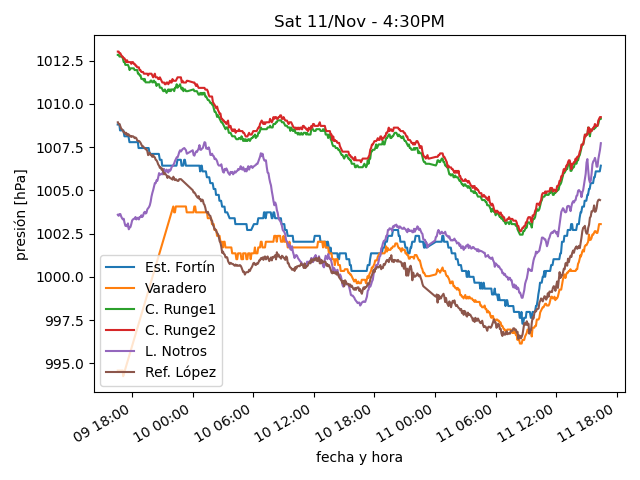
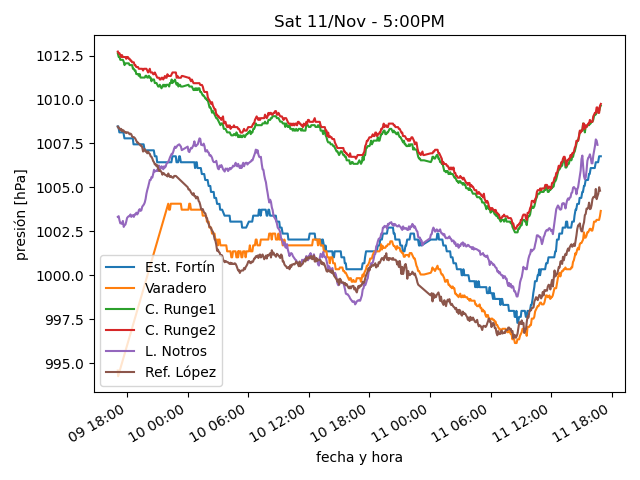
actualiza datos

diff --git a/estaciones/estacion3.html b/estaciones/estacion3.html
@@ -18,47 +18,47 @@
     </tr>
     <tr>
      <td class="stats_data">
-      4:24PM
+      4:54PM
      </td>
     </tr>
     <tr>
      <td class="stats_data">
-      1.8⁰C
+      0.8⁰C
      </td>
     </tr>
     <tr>
      <td class="stats_data">
-      0.9⁰C
+      0.5⁰C
      </td>
     </tr>
     <tr>
      <td class="stats_data">
-      94.3%
+      97.8%
      </td>
     </tr>
     <tr>
      <td class="stats_data">
-      997.43hPa
+      997.93hPa
      </td>
     </tr>
     <tr>
      <td class="stats_data">
-      5.6/8.6 km/hr WNW
+      6.7/9.9 km/hr WNW
      </td>
     </tr>
     <tr>
      <td class="stats_data">
-      4.6 / 0.0 mm
+      4.8 / 1.19 mm
      </td>
     </tr>
     <tr>
      <td class="stats_data">
-      1.0
+      2.0
      </td>
     </tr>
     <tr>
      <td class="stats_data">
-      105.0 W/m²
+      209.9 W/m²
      </td>
     </tr>
    </tbody>

diff --git a/estaciones/estacion4.html b/estaciones/estacion4.html
@@ -18,47 +18,47 @@
     </tr>
     <tr>
      <td class="stats_data">
-      4:24PM
+      4:54PM
      </td>
     </tr>
     <tr>
      <td class="stats_data">
-      2.1⁰C
+      1.3⁰C
      </td>
     </tr>
     <tr>
      <td class="stats_data">
-      0.9⁰C
+      0.3⁰C
      </td>
     </tr>
     <tr>
      <td class="stats_data">
-      91.5%
+      94.2%
      </td>
     </tr>
     <tr>
      <td class="stats_data">
-      1006.23hPa
+      1006.74hPa
      </td>
     </tr>
     <tr>
      <td class="stats_data">
-      3.2/4.9 km/hr SW
+      1.6/2.7 km/hr S
      </td>
     </tr>
     <tr>
      <td class="stats_data">
-      4.8 / 0.0 mm
+      5.11 / 1.8 mm
      </td>
     </tr>
     <tr>
      <td class="stats_data">
-      0.0
+      2.0
      </td>
     </tr>
     <tr>
      <td class="stats_data">
-      93.3 W/m²
+      218.3 W/m²
      </td>
     </tr>
    </tbody>

diff --git a/estaciones/estacion1.html b/estaciones/estacion1.html
@@ -18,32 +18,32 @@
     </tr>
     <tr>
      <td class="stats_data">
-      4:24PM
+      4:54PM
      </td>
     </tr>
     <tr>
      <td class="stats_data">
-      3.2⁰C
+      2.4⁰C
      </td>
     </tr>
     <tr>
      <td class="stats_data">
-      -0.3⁰C
+      -0.8⁰C
      </td>
     </tr>
     <tr>
      <td class="stats_data">
-      77.7%
+      79.3%
      </td>
     </tr>
     <tr>
      <td class="stats_data">
-      1006.43hPa
+      1006.77hPa
      </td>
     </tr>
     <tr>
      <td class="stats_data">
-      20.5/27.4 km/hr WSW
+      13.4/24.7 km/hr W
      </td>
     </tr>
     <tr>
@@ -53,12 +53,12 @@
     </tr>
     <tr>
      <td class="stats_data">
-      1.7
+      0.8
      </td>
     </tr>
     <tr>
      <td class="stats_data">
-      209.0 W/m²
+      155.0 W/m²
      </td>
     </tr>
    </tbody>

diff --git a/estaciones/estacion2.html b/estaciones/estacion2.html
@@ -18,32 +18,32 @@
     </tr>
     <tr>
      <td class="stats_data">
-      4:24PM
+      4:54PM
      </td>
     </tr>
     <tr>
      <td class="stats_data">
-      3.2⁰C
+      2.7⁰C
      </td>
     </tr>
     <tr>
      <td class="stats_data">
-      2.2⁰C
+      2.0⁰C
      </td>
     </tr>
     <tr>
      <td class="stats_data">
-      93.9%
+      95.1%
      </td>
     </tr>
     <tr>
      <td class="stats_data">
-      1012.53hPa
+      1013.14hPa
      </td>
     </tr>
     <tr>
      <td class="stats_data">
-      34.0/39.9 km/hr NW
+      35.9/41.6 km/hr NW
      </td>
     </tr>
     <tr>
@@ -58,7 +58,7 @@
     </tr>
     <tr>
      <td class="stats_data">
-      170.1 W/m²
+      128.3 W/m²
      </td>
     </tr>
    </tbody>

diff --git a/estaciones/estacion6.html b/estaciones/estacion6.html
@@ -18,12 +18,7 @@
     </tr>
     <tr>
      <td class="stats_data">
-      4:20PM
-     </td>
-    </tr>
-    <tr>
-     <td class="stats_data">
-      -3.9⁰C
+      4:50PM
      </td>
     </tr>
     <tr>
@@ -33,17 +28,22 @@
     </tr>
     <tr>
      <td class="stats_data">
+      -5.3⁰C
+     </td>
+    </tr>
+    <tr>
+     <td class="stats_data">
       95.0%
      </td>
     </tr>
     <tr>
      <td class="stats_data">
-      1005.83hPa
+      1006.2hPa
      </td>
     </tr>
     <tr>
      <td class="stats_data">
-      4.8/14.5 km/hr NNE
+      8.0/19.3 km/hr SE
      </td>
     </tr>
     <tr>
@@ -58,7 +58,7 @@
     </tr>
     <tr>
      <td class="stats_data">
-      899.0 W/m²
+      889.0 W/m²
      </td>
     </tr>
    </tbody>

diff --git a/estaciones/estacion5.html b/estaciones/estacion5.html
@@ -18,12 +18,12 @@
     </tr>
     <tr>
      <td class="stats_data">
-      4:25PM
+      4:35PM
      </td>
     </tr>
     <tr>
      <td class="stats_data">
-      2.1⁰C
+      1.8⁰C
      </td>
     </tr>
     <tr>
@@ -33,12 +33,12 @@
     </tr>
     <tr>
      <td class="stats_data">
-      89.0%
+      90.0%
      </td>
     </tr>
     <tr>
      <td class="stats_data">
-      1010.3hPa
+      1009.99hPa
      </td>
     </tr>
     <tr>
@@ -48,7 +48,7 @@
     </tr>
     <tr>
      <td class="stats_data">
-      6.35 / 0.0 mm
+      6.6 / 0.25 mm
      </td>
     </tr>
     <tr>
